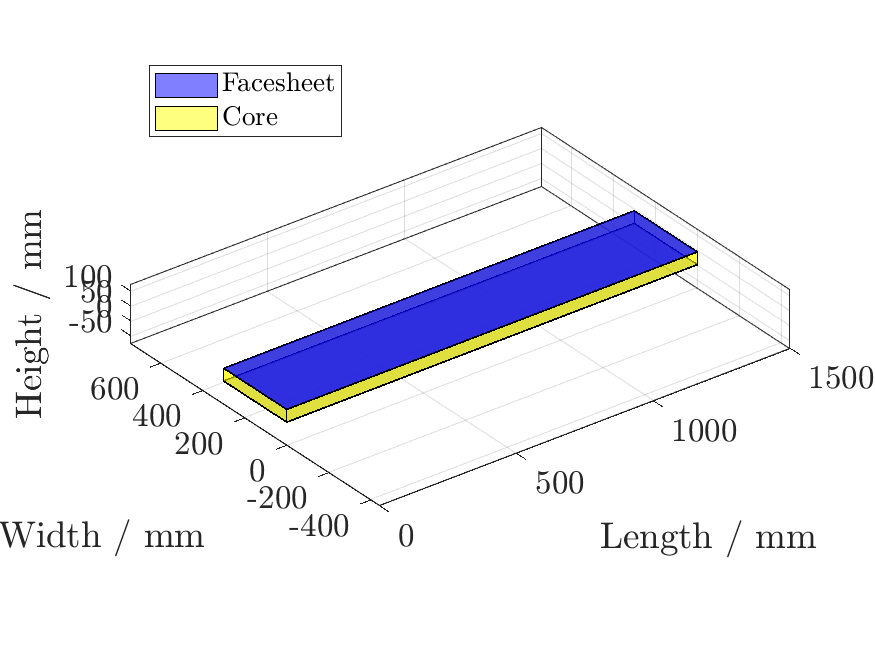
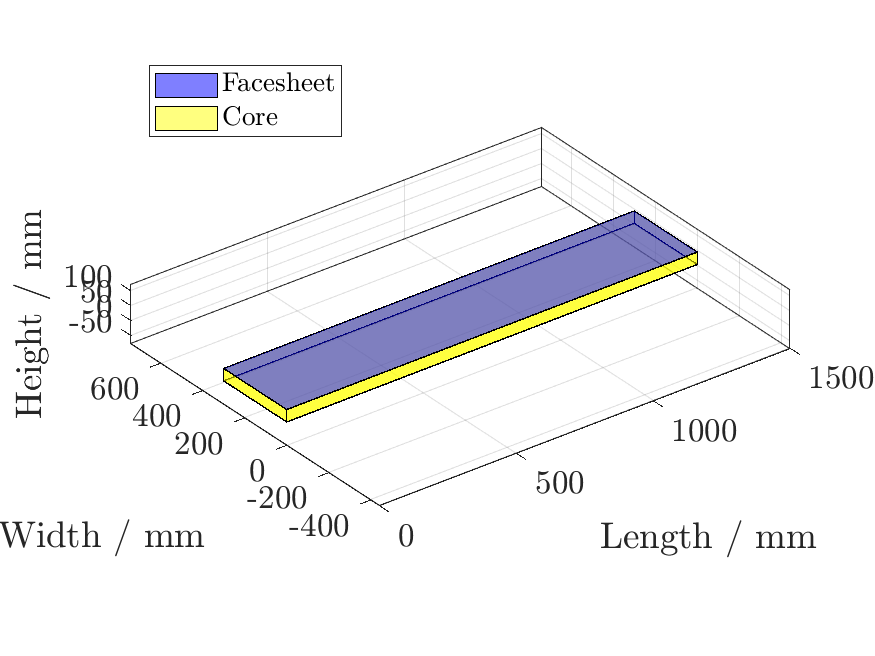
Auto stash before checking out "HEAD"

Changed region(s): [[0.2469, 0.3049, 0.8023, 0.6402]]

diff --git a/Monocoque/Side_Impact_Structure/BottomSandwich.m b/Monocoque/Side_Impact_Structure/BottomSandwich.m
@@ -1,0 +1,197 @@
+clear
+clc
+close all
+
+%% Assumptions
+% Beam theory applicable to sandwich structures for low t/c, c/L
+% Assume homogeneous isotropic facesheets with modulus E_f
+% Assume isotropic foam core of modulus E_c
+% Assume sigma_fc_failure is lower than sigma_ft_failure (compressive lower
+% than tensile)
+% Facesheet failure occurs in 3 point bending
+
+%% Definitions
+% t = Thickness of ONE laminate facesheet
+% c = Thickness of foam core
+% d = c + t i.e. distance from halfway through a facesheet to halfway
+% through the other facesheet
+
+%% Facesheet layup
+layup_iteration_0_s = [0 -45 45 0 90 0];
+[A_0, B_0, D_0, ABD_0, Q_0, thickness_0] = ABD(layup_iteration_0_s);
+
+L = 1500e-3;% Length of the structure in m
+b = 300e-3;% Depth of the beam, i.e. about the axis of bending in m
+c = 40e-3;% Thickness of the foam core
+%% Orthoropic approximation
+F = 7500;% Force in N
+
+b_adapted = 0.05; %A
+
+E_f_x = (1 - A_0(1,2)^2 / (A_0(2,2) * A_0(1,1))) * A_0(1,1) / b_adapted;
+E_f_y = (1 - A_0(1,2)^2 / (A_0(2,2) * A_0(1,1))) * A_0(2,2) / b_adapted;
+%% Dimensions and properties
+E_c = psiToPa(65e3);% Modulus of the foam core in Pa
+d = c + thickness_0;
+G_c = psiToPa(35e3);% Shear modulus of the foam core in Pa
+sigma_critical_fc = 1.780e9;% Compressive composite facesheet failure stress in Pa
+tau_critical_glue = 60e6;% Glue delamination stress
+tau_critical_core = psiToPa(360);% Critical core shear stress
+sigma_critical_core = psiToPa(625);% Critical stress same due to isotropic
+rho_fc = 1570;% Facesheet density in kgm^-3
+rho_c = 83.3;% Core density in kgm^-3
+volume_fc = thickness_0 * b * L;% Volume in m^3
+mass_fc = volume_fc * rho_fc;% Mass in kg
+volume_c = c * b * L;% Volume in m^3
+mass_c = volume_c * rho_c;% Mass in kg
+mass_total = mass_fc + mass_c %Total mass per side in kg
+thickness_total = c + 2 * thickness_0
+%% Dimensionless quantities
+tbar = thickness_0 / c;
+cbar = c / L;
+sigmabar = sigma_critical_fc / sigma_critical_core;
+taubar = tau_critical_core / sigma_critical_fc;
+Ebar = E_f_x / sigma_critical_fc;
+Fbar = F / (b * L * sigma_critical_fc);
+
+%% Equivalent bending stiffness
+EI_sw = (E_f_x * b * thickness_0 * d^2 / 2) + (E_f_x * b * thickness_0^3 / 6) + (E_c * b * c^3 / 12);
+
+%% Equivalent shear stiffness
+AG_sw = b * c * G_c;
+
+%% 3 point bend deflection estimation
+delta_3point_perimeter = (F * L^3) / (48 * EI_sw) + (F * L) / (4 * AG_sw);% Approximate deflection in m
+
+%% Facesheet failure
+F_critical_facesheet = (4 * d * b * thickness_0 * sigma_critical_fc) / L;% Critial load in 3-point bending causing facesheet failure
+if F_critical_facesheet < F
+    disp("Sandwich structure fails in facesheet failure")
+end
+
+%% Core delamination
+F_critical_glue = 2 * b * d * tau_critical_glue;
+
+F_critical_CS = 2 * b * d * tau_critical_core;
+
+%% Indentation failure
+F_critical_indentation = b * thickness_0 * ((pi^2 * d * E_f_x * sigma_critical_fc ^ 2) / (3 * L)) ^ (2/3);
+
+%% Min Force for failure
+[minload,i_minload] = min([F_critical_facesheet F_critical_glue F_critical_CS F_critical_indentation]);
+failuremode = ["Facesheet Failure" "Delamination" "Core Shear Failure" "Indenation Failure"];
+disp(['Fails in ' failuremode(i_minload) ' at ' minload ' N'])
+
+%% Energy absorption
+delta_fail = (minload * L^3) / (48 * EI_sw) + (minload * L) / (4 * AG_sw);% Approximate deflection in m
+% Know that it deflects before failure
+
+delta_desired = 0.05;
+F_absorption = delta_desired / ((L^3) / (48 * EI_sw) + (L) / (4 * AG_sw));
+
+Energy_absorbed = delta_desired * F_absorption;
+
+%% Steel absorption
+E_steel = 2e11;
+sigma_y_steel = 3.05e8;
+UTS_steel = 3.65e8;
+no_tubes = 2;
+OD_tube = 25.4e-3;
+wall_thickness = 1.6e-3;
+ID_tube = OD_tube - 2 * wall_thickness;
+
+area_single = pi / 4 * (OD_tube^2 - ID_tube^2);
+area_tubes = area_single * no_tubes;
+
+strain_y_steel = sigma_y_steel / E_steel;
+Energy_absorbed_steel = (strain_y_steel * sigma_y_steel / 2) * area_tubes * L;
+%% Test
+required_EI = 3.4067e+03 / 2
+EI_sw
+
+% Deflects at delta_desired, absorbs more energy assuming linear elasticity
+Energy_absorbed_steel
+Energy_absorbed
+
+%% Visualisation
+% Define the dimensions of the sandwich structure
+LenPlot = L * 1000; % Length in mm
+W = b * 1000; % Width in mm
+t = thickness_0 * 1000;  % Thickness of facesheet in mm
+core = c * 1000;  % Thickness of core in mm
+
+% Create vertices for the facesheets and the core
+facesheet1_vertices = [0 0 0;
+                       LenPlot 0 0;
+                       LenPlot W 0;
+                       0 W 0;
+                       0 0 t;
+                       LenPlot 0 t;
+                       LenPlot W t;
+                       0 W t];
+
+core_vertices = [0 0 t;
+                 LenPlot 0 t;
+                 LenPlot W t;
+                 0 W t;
+                 0 0 (t + core);
+                 LenPlot 0 (t + core);
+                 LenPlot W (t + core);
+                 0 W (t + core)];
+
+facesheet2_vertices = [0 0 (t + core);
+                       LenPlot 0 (t + core);
+                       LenPlot W (t + core);
+                       0 W (t + core);
+                       0 0 (2*t + core);
+                       LenPlot 0 (2*t + core);
+                       LenPlot W (2*t + core);
+                       0 W (2*t + core)];
+
+% Define the faces of the boxes using the vertices
+faces = [1 2 3 4; 
+         5 6 7 8; 
+         1 2 6 5; 
+         2 3 7 6; 
+         3 4 8 7; 
+         4 1 5 8];
+
+% Create the figure
+composite_structure = figure;
+hold on;
+
+% Plot the first facesheet
+patch('Vertices', facesheet1_vertices, 'Faces', faces, 'FaceColor', 'blue', 'EdgeColor', 'black', 'FaceAlpha', 0.5);
+
+% Plot the core
+patch('Vertices', core_vertices, 'Faces', faces, 'FaceColor', 'yellow', 'EdgeColor', 'black', 'FaceAlpha', 0.5);
+
+% Plot the second facesheet
+patch('Vertices', facesheet2_vertices, 'Faces', faces, 'FaceColor', 'blue', 'EdgeColor', 'black', 'FaceAlpha', 0.5);
+
+% Set the axes properties
+xlabel('Length / mm')
+ylabel('Width / mm')
+zlabel('Height / mm')
+axis equal
+grid on
+view(3)
+
+% Add title
+%title('Composite Sandwich Structure')
+legend('Facesheet', 'Core',Location='northwest')
+betterPlot(composite_structure)
+saveas(composite_structure, "composite_sandwich_structure.png")
+hold off;
+
+%% Closing all
+close all
+
+%% Cost per m2 composite
+cost_per_m2_8552 = 35;
+[cost,~] = composite_cost(layup_iteration_0_s,cost_per_m2_8552,L,b);% Minus honeycomb and adhesives, 2 halves
+area_covered = L * b;
+mass_per_m2 = mass_total / area_covered
+cost_per_m2 = cost / area_covered
+volume_total = volume_c + volume_fc;
+rho_total = mass_total / volume_total
